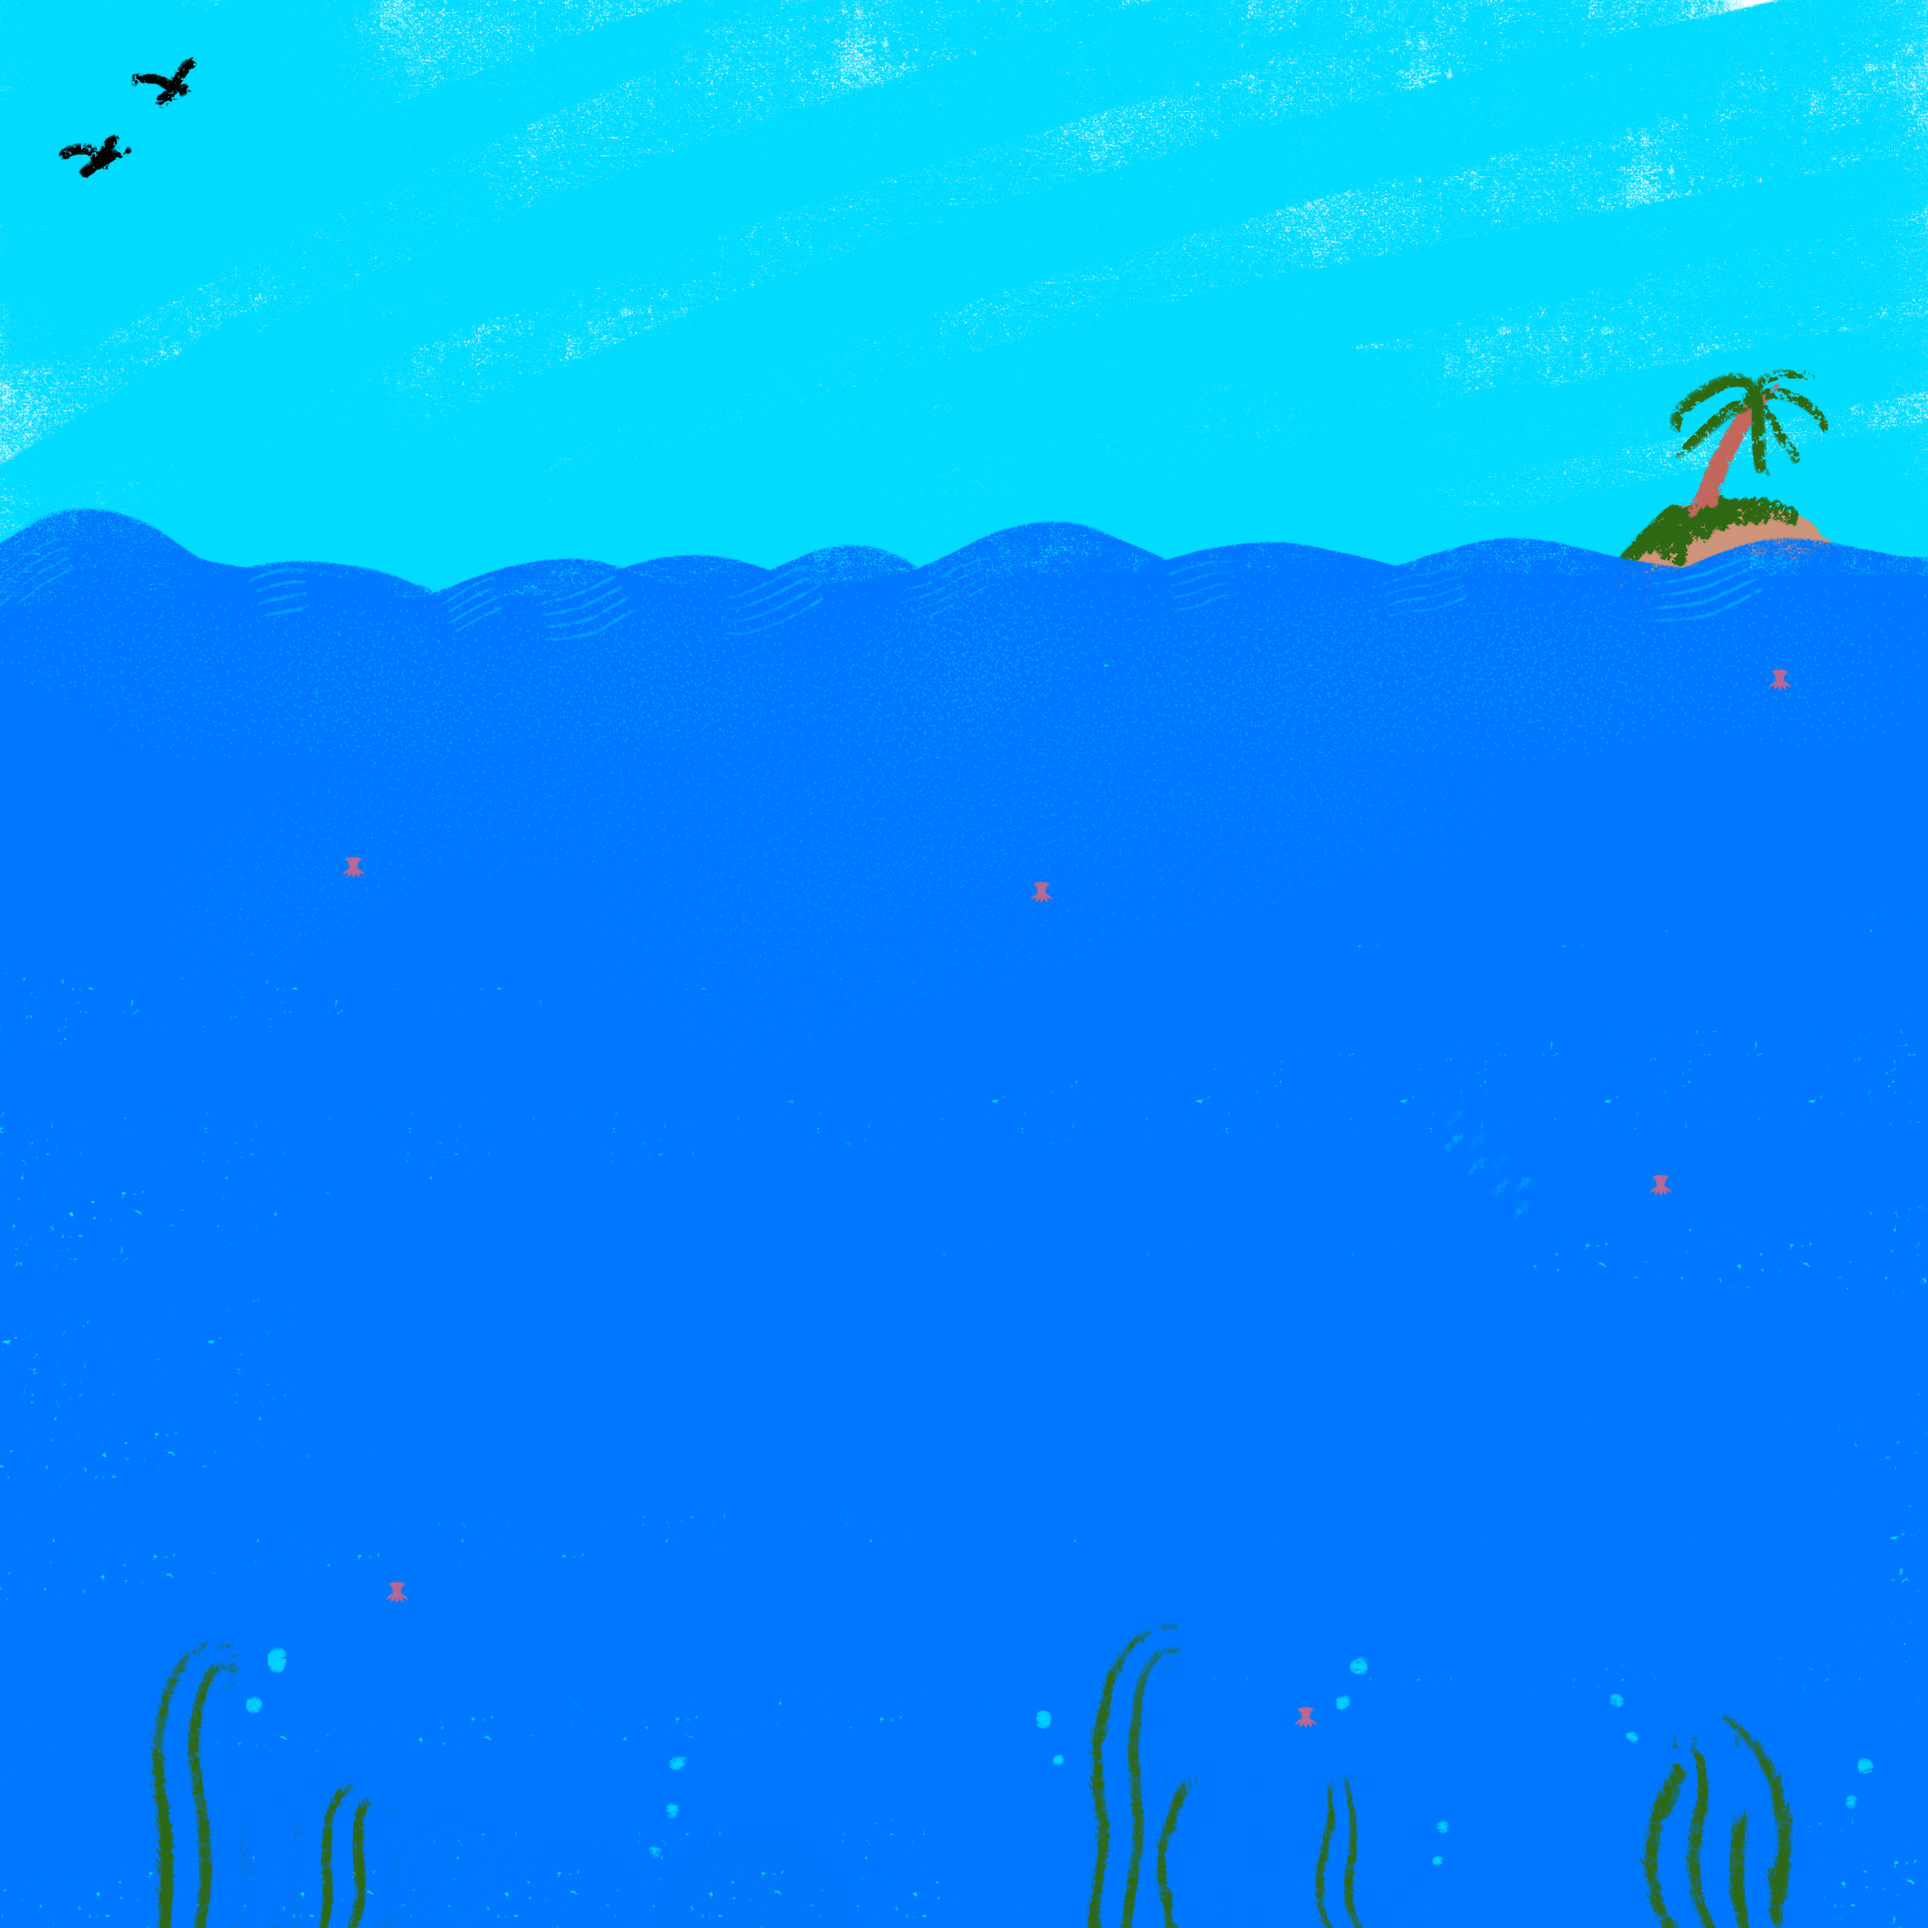
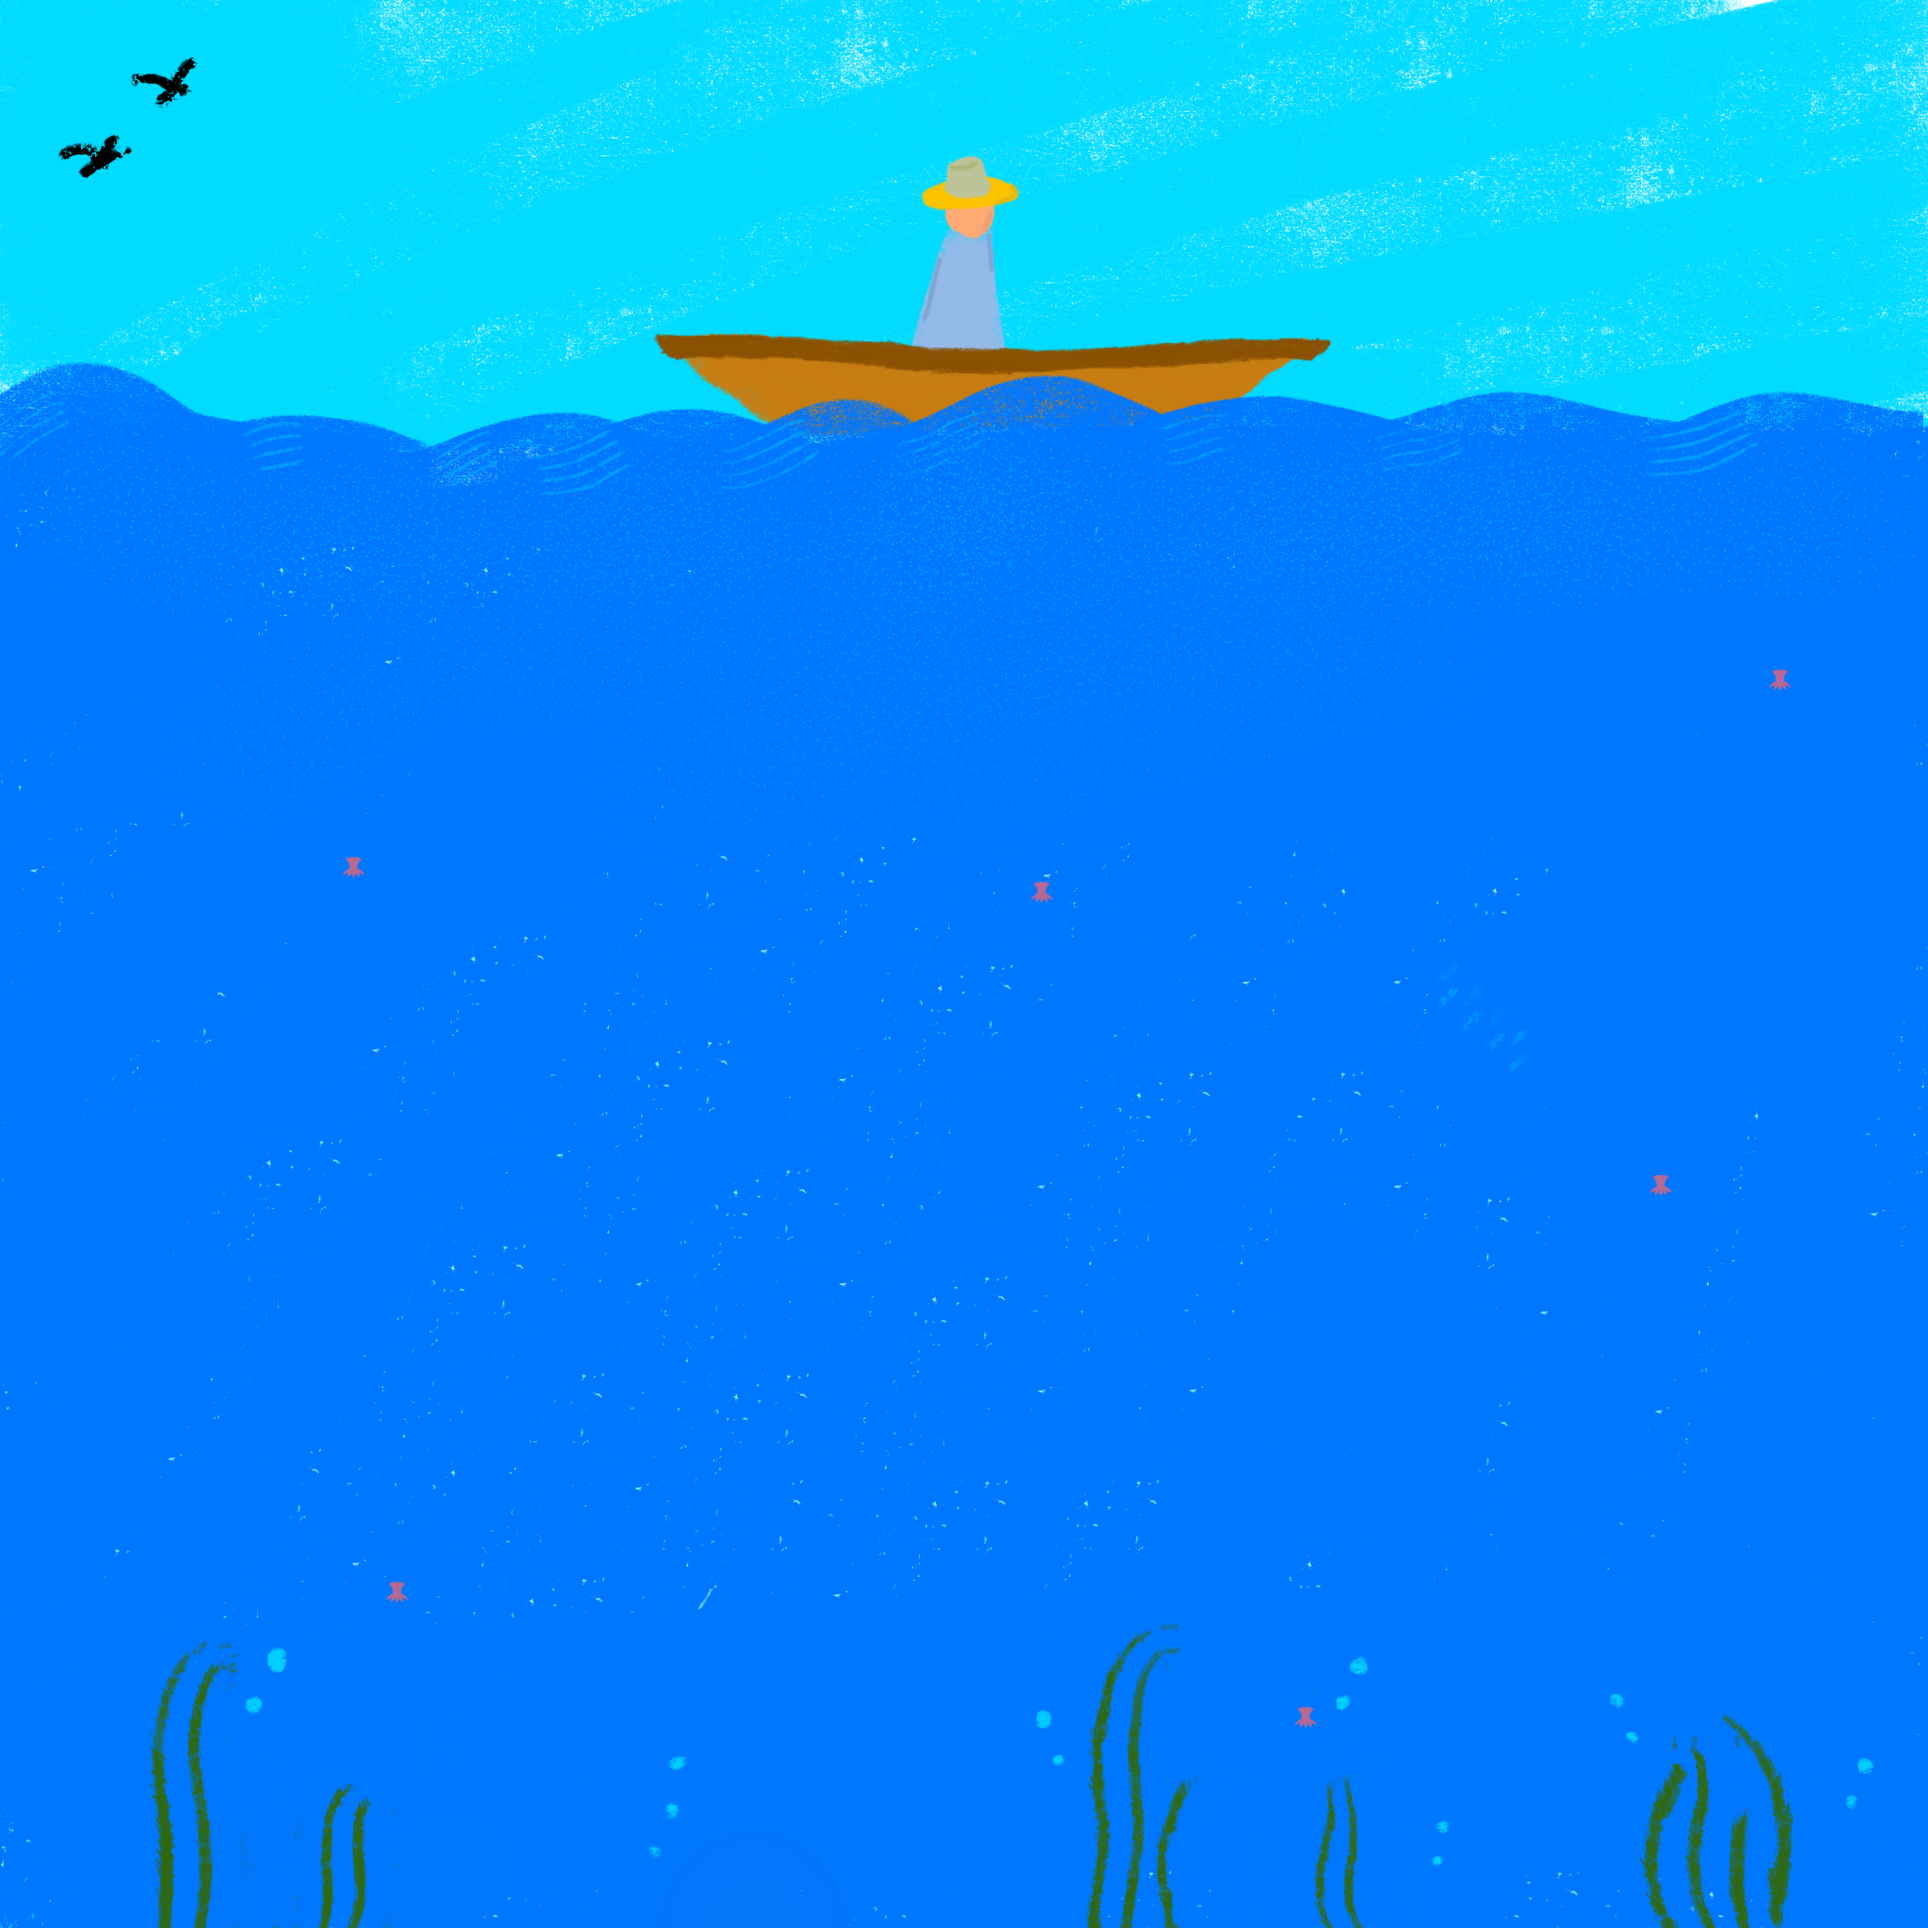
Commit 6.5: Add background for different types of water

Changed region(s): [[0.0, 0.0625, 1.0, 0.3438]]

diff --git a/A8/view.cpp b/A8/view.cpp
@@ -266,7 +266,10 @@ void View::mousePressEvent(QMouseEvent *event){
 void View::on_freshWaterButton_clicked()
 {
     ui->stackedWidget->setCurrentIndex(1);
-    ui->stackedWidget->widget(1)->setStyleSheet("border-image: url(:/Background_Pond.png) 0 0 0 0 stretch stretch");
+
+    QPixmap backgroundPix;
+    backgroundPix.load(":/Background_Pond.png");
+    ui->backgroundImageLabel->setPixmap(backgroundPix.scaled(800,570));
 
     emit updateWorld(ui->freshWaterButton->text());
 }
@@ -276,6 +279,10 @@ void View::on_smoothWaterButton_clicked()
 {
     ui->stackedWidget->setCurrentIndex(1);
 
+    QPixmap backgroundPix;
+    backgroundPix.load(":/Background_River.png");
+    ui->backgroundImageLabel->setPixmap(backgroundPix.scaled(800,570));
+
     emit updateWorld(ui->smoothWaterButton->text());
 }
 
@@ -283,6 +290,10 @@ void View::on_smoothWaterButton_clicked()
 void View::on_saltWaterButton_clicked()
 {
     ui->stackedWidget->setCurrentIndex(1);
+
+    QPixmap backgroundPix;
+    backgroundPix.load(":/Background_Ocean.png");
+    ui->backgroundImageLabel->setPixmap(backgroundPix.scaled(800,570));
 
     emit updateWorld(ui->saltWaterButton->text());
 }
